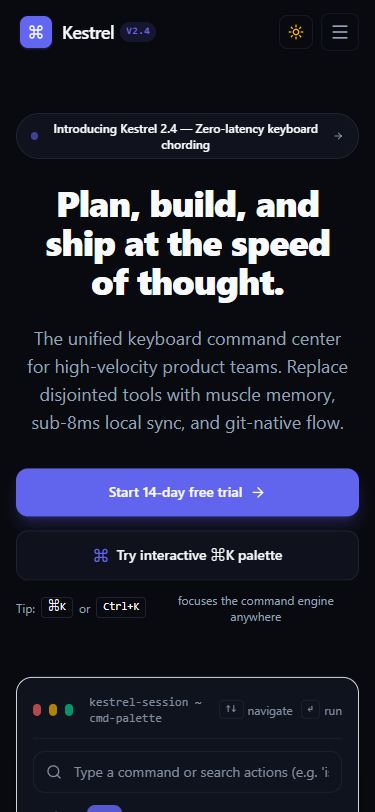
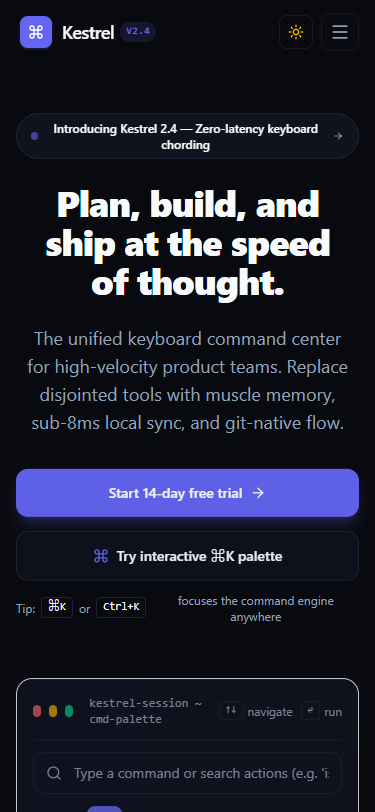
feat: add Framer-style multiplayer collaboration cursor

diff --git a/components/TeammateCursor.js b/components/TeammateCursor.js
@@ -1,0 +1,133 @@
+'use client'
+
+import { useState, useEffect } from 'react'
+import { motion, useReducedMotion } from 'framer-motion'
+
+// Percentage-based waypoints inside the relative hero demo container
+export const WAYPOINTS = [
+  { x: '42%', y: '26%', rowIndex: -1, pause: 800 }, // Filter chips area
+  { x: '52%', y: '46%', rowIndex: 0, pause: 850 },  // First command palette row
+  { x: '68%', y: '62%', rowIndex: 1, pause: 750 },  // Second command palette row
+  { x: '36%', y: '78%', rowIndex: 2, pause: 900 },  // Third command palette row
+  { x: '82%', y: '38%', rowIndex: -1, pause: 700 }  // Action shortcut hint area
+]
+
+export default function TeammateCursor({ onHoverRow }) {
+  const shouldReduceMotion = useReducedMotion()
+  const [currentIdx, setCurrentIdx] = useState(0)
+  const [isRippling, setIsRippling] = useState(false)
+
+  useEffect(() => {
+    // If user prefers reduced motion, remain static at first waypoint with no loop or ripple
+    if (shouldReduceMotion) {
+      if (onHoverRow) onHoverRow(-1)
+      return
+    }
+
+    let isMounted = true
+    let rippleTimeout
+    let nextStepTimeout
+
+    const activeWaypoint = WAYPOINTS[currentIdx]
+
+    // Glide duration is ~1.1s, then trigger ripple and active row state
+    const glideDuration = 1100
+
+    const arrivalTimer = setTimeout(() => {
+      if (!isMounted) return
+
+      // Show click ripple and activate UI row
+      setIsRippling(true)
+      if (onHoverRow) onHoverRow(activeWaypoint.rowIndex)
+
+      // Hide ripple after 450ms
+      rippleTimeout = setTimeout(() => {
+        if (isMounted) setIsRippling(false)
+      }, 450)
+
+      // Pause at waypoint (600 - 900ms) before advancing to next
+      nextStepTimeout = setTimeout(() => {
+        if (!isMounted) return
+        if (onHoverRow) onHoverRow(-1)
+        setCurrentIdx((prev) => (prev + 1) % WAYPOINTS.length)
+      }, activeWaypoint.pause)
+    }, glideDuration)
+
+    return () => {
+      isMounted = false
+      clearTimeout(arrivalTimer)
+      clearTimeout(rippleTimeout)
+      clearTimeout(nextStepTimeout)
+    }
+  }, [currentIdx, shouldReduceMotion, onHoverRow])
+
+  const targetWaypoint = shouldReduceMotion ? WAYPOINTS[0] : WAYPOINTS[currentIdx]
+
+  return (
+    <div
+      aria-hidden="true"
+      className="hidden md:block absolute inset-0 pointer-events-none z-30 select-none overflow-hidden"
+    >
+      <motion.div
+        className="absolute top-0 left-0"
+        initial={false}
+        animate={{
+          x: targetWaypoint.x,
+          y: targetWaypoint.y
+        }}
+        transition={
+          shouldReduceMotion
+            ? { duration: 0 }
+            : {
+                duration: 1.1,
+                ease: [0.25, 1, 0.5, 1] // Smooth bezier glide
+              }
+        }
+        style={{ transform: 'translate3d(0,0,0)' }}
+      >
+        <div className="relative flex items-center">
+          {/* Classic Arrow Pointer SVG with soft drop shadow */}
+          <svg
+            width="22"
+            height="22"
+            viewBox="0 0 24 24"
+            fill="none"
+            xmlns="http://www.w3.org/2000/svg"
+            className="drop-shadow-[0_2px_6px_rgba(0,0,0,0.35)] shrink-0"
+          >
+            <path
+              d="M3 3l7.07 16.97 2.51-7.39 7.39-2.51L3 3z"
+              fill="var(--cursor-svg, #3b82f6)"
+              stroke="#ffffff"
+              strokeWidth="1.5"
+              strokeLinejoin="round"
+            />
+          </svg>
+
+          {/* Name Pill Tag */}
+          <div
+            className="ml-1.5 px-2 py-0.5 rounded-full text-[11px] font-semibold tracking-wide text-white shadow-md flex items-center leading-none"
+            style={{
+              backgroundColor: 'var(--cursor-blue, #2563eb)'
+            }}
+          >
+            Maya
+          </div>
+
+          {/* Click Ripple Effect */}
+          {isRippling && !shouldReduceMotion && (
+            <motion.span
+              initial={{ scale: 0.3, opacity: 0.9 }}
+              animate={{ scale: 2.4, opacity: 0 }}
+              transition={{ duration: 0.45, ease: 'easeOut' }}
+              className="absolute -top-1.5 -left-1.5 w-6 h-6 rounded-full border-2 pointer-events-none"
+              style={{
+                borderColor: 'var(--cursor-svg, #3b82f6)'
+              }}
+            />
+          )}
+        </div>
+      </motion.div>
+    </div>
+  )
+}

diff --git a/components/Hero.jsx b/components/Hero.jsx
@@ -3,6 +3,7 @@
 import { useState, useRef, useEffect } from 'react'
 import { motion, AnimatePresence } from 'framer-motion'
 import { heroCommands } from '@/data/commands'
+import TeammateCursor from '@/components/TeammateCursor'
 import {
   Command,
   Search,
@@ -34,6 +35,7 @@ export default function Hero({ onOpenModal }) {
   const [query, setQuery] = useState('')
   const [selectedCategory, setSelectedCategory] = useState('All')
   const [selectedIndex, setSelectedIndex] = useState(0)
+  const [teammateRowIndex, setTeammateRowIndex] = useState(-1)
   const [lastExecuted, setLastExecuted] = useState(null)
   const [isFocused, setIsFocused] = useState(false)
   const inputRef = useRef(null)
@@ -212,6 +214,9 @@ export default function Hero({ onOpenModal }) {
           transition={{ duration: 0.6, delay: 0.35 }}
           className="mt-12 text-left max-w-3xl mx-auto rounded-2xl border border-line-strong bg-card/90 backdrop-blur-xl shadow-2xl p-4 sm:p-5 relative overflow-hidden"
         >
+          {/* Animated Multiplayer Teammate Cursor (Framer-style) */}
+          <TeammateCursor onHoverRow={setTeammateRowIndex} />
+
           {/* Top Window Header */}
           <div className="flex items-center justify-between pb-3 border-b border-line mb-3">
             <div className="flex items-center gap-2">
@@ -310,6 +315,7 @@ export default function Hero({ onOpenModal }) {
               filteredCommands.map((cmd, idx) => {
                 const IconComponent = iconMap[cmd.icon] || Command
                 const isSelected = selectedIndex === idx
+                const isTeammateHovered = teammateRowIndex === idx
 
                 return (
                   <div
@@ -321,15 +327,21 @@ export default function Hero({ onOpenModal }) {
                       executeCommand(cmd)
                     }}
                     onMouseEnter={() => setSelectedIndex(idx)}
-                    className={`flex items-center justify-between p-2.5 rounded-lg cursor-pointer transition-colors ${
+                    className={`flex items-center justify-between p-2.5 rounded-lg cursor-pointer transition-colors relative ${
                       isSelected
-                        ? 'bg-accent-subtle text-accent'
+                        ? 'bg-accent-subtle text-accent ring-1 ring-accent/30'
+                        : isTeammateHovered
+                        ? 'bg-blue-500/10 text-blue-600 dark:text-blue-400 ring-1 ring-blue-500/30'
                         : 'hover:bg-bg-muted text-fg'
                     }`}
                   >
                     <div className="flex items-center gap-3">
-                      <div className={`p-1.5 rounded-md ${
-                        isSelected ? 'bg-accent text-white' : 'bg-bg-muted text-muted'
+                      <div className={`p-1.5 rounded-md transition-colors ${
+                        isSelected
+                          ? 'bg-accent text-white'
+                          : isTeammateHovered
+                          ? 'bg-blue-600 text-white'
+                          : 'bg-bg-muted text-muted'
                       }`}>
                         <IconComponent className="w-4 h-4" />
                       </div>
@@ -379,3 +391,4 @@ export default function Hero({ onOpenModal }) {
     </section>
   )
 }
+

diff --git a/app/globals.css b/app/globals.css
@@ -11,6 +11,8 @@
   --accent-subtle: #eef2ff;
   --card-border: rgba(0, 0, 0, 0.08);
   --glow: rgba(99, 102, 241, 0.18);
+  --cursor-blue: #2563eb;
+  --cursor-svg: #3b82f6;
 }
 
 .dark {
@@ -24,6 +26,8 @@
   --accent-subtle: rgba(99, 102, 241, 0.14);
   --card-border: rgba(255, 255, 255, 0.08);
   --glow: rgba(99, 102, 241, 0.28);
+  --cursor-blue: #2563eb;
+  --cursor-svg: #60a5fa;
 }
 
 @theme inline {
@@ -82,3 +86,4 @@ body {
   outline: 2px solid var(--accent);
   outline-offset: 2px;
 }
+

diff --git a/scripts/create-favicon.js b/scripts/create-favicon.js
@@ -51,3 +51,4 @@ if (!fs.existsSync(pubDir)) fs.mkdirSync(pubDir, { recursive: true })
 fs.writeFileSync(path.join(pubDir, 'favicon.ico'), ico)
 fs.writeFileSync(path.resolve('app/favicon.ico'), ico)
 console.log('Successfully generated valid favicon.ico in public/ and app/')
+

diff --git a/data/keyboard.js b/data/keyboard.js
@@ -70,3 +70,4 @@ export const quickChords = [
   { combo: 'B', label: 'Branch Switcher', desc: 'Checkout git worktree' },
   { combo: '⌘ + D', label: 'Instant Deploy', desc: 'Trigger canary pipeline' }
 ]
+

diff --git a/data/workflows.js b/data/workflows.js
@@ -133,3 +133,4 @@ export const shipData = {
     { name: 'Vulnerability Scan (Snyk)', status: 'Passed', time: '9s' }
   ]
 }
+

diff --git a/components/GetStartedModal.jsx b/components/GetStartedModal.jsx
@@ -223,3 +223,4 @@ export default function GetStartedModal({ isOpen, onClose }) {
     </AnimatePresence>
   )
 }
+

diff --git a/data/commands.js b/data/commands.js
@@ -63,3 +63,4 @@ export const heroCommands = [
     actionText: 'Switched visual color mode'
   }
 ]
+

diff --git a/components/WorkflowTabs.jsx b/components/WorkflowTabs.jsx
@@ -349,3 +349,4 @@ export default function WorkflowTabs({ onOpenModal }) {
     </section>
   )
 }
+

diff --git a/data/testimonials.js b/data/testimonials.js
@@ -36,3 +36,4 @@ export const testimonials = [
     highlight: '38% cycle time reduction'
   }
 ]
+

diff --git a/data/pricing.js b/data/pricing.js
@@ -59,3 +59,4 @@ export const pricingTiers = [
     hint: 'Custom contracts & invoicing'
   }
 ]
+

diff --git a/components/ClosingCTA.jsx b/components/ClosingCTA.jsx
@@ -47,3 +47,4 @@ export default function ClosingCTA({ onOpenModal }) {
     </section>
   )
 }
+
